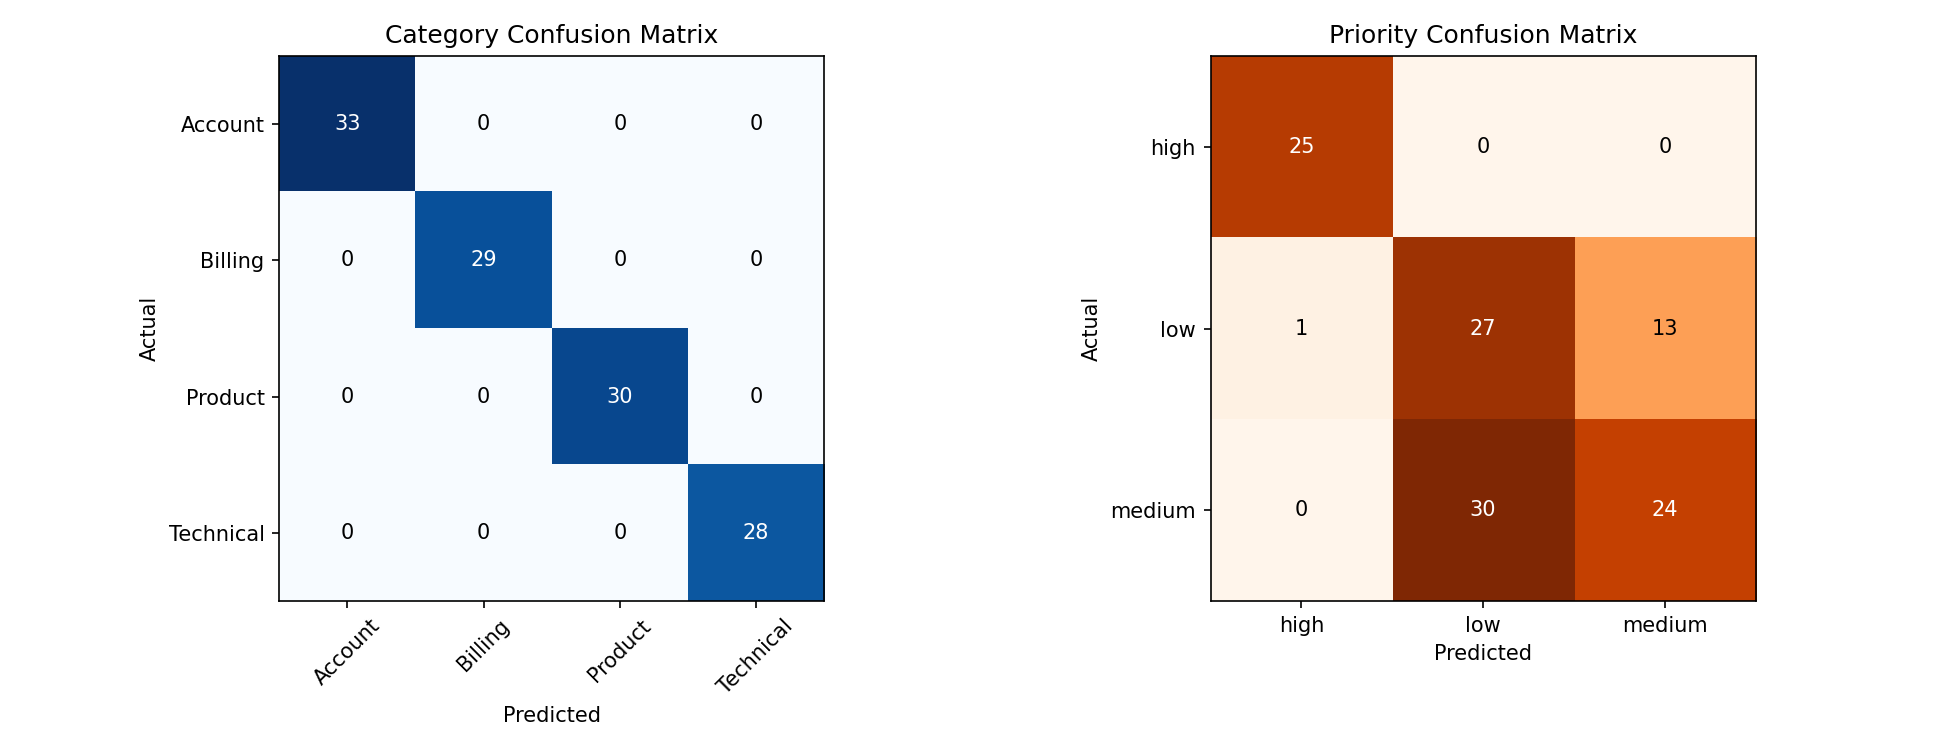
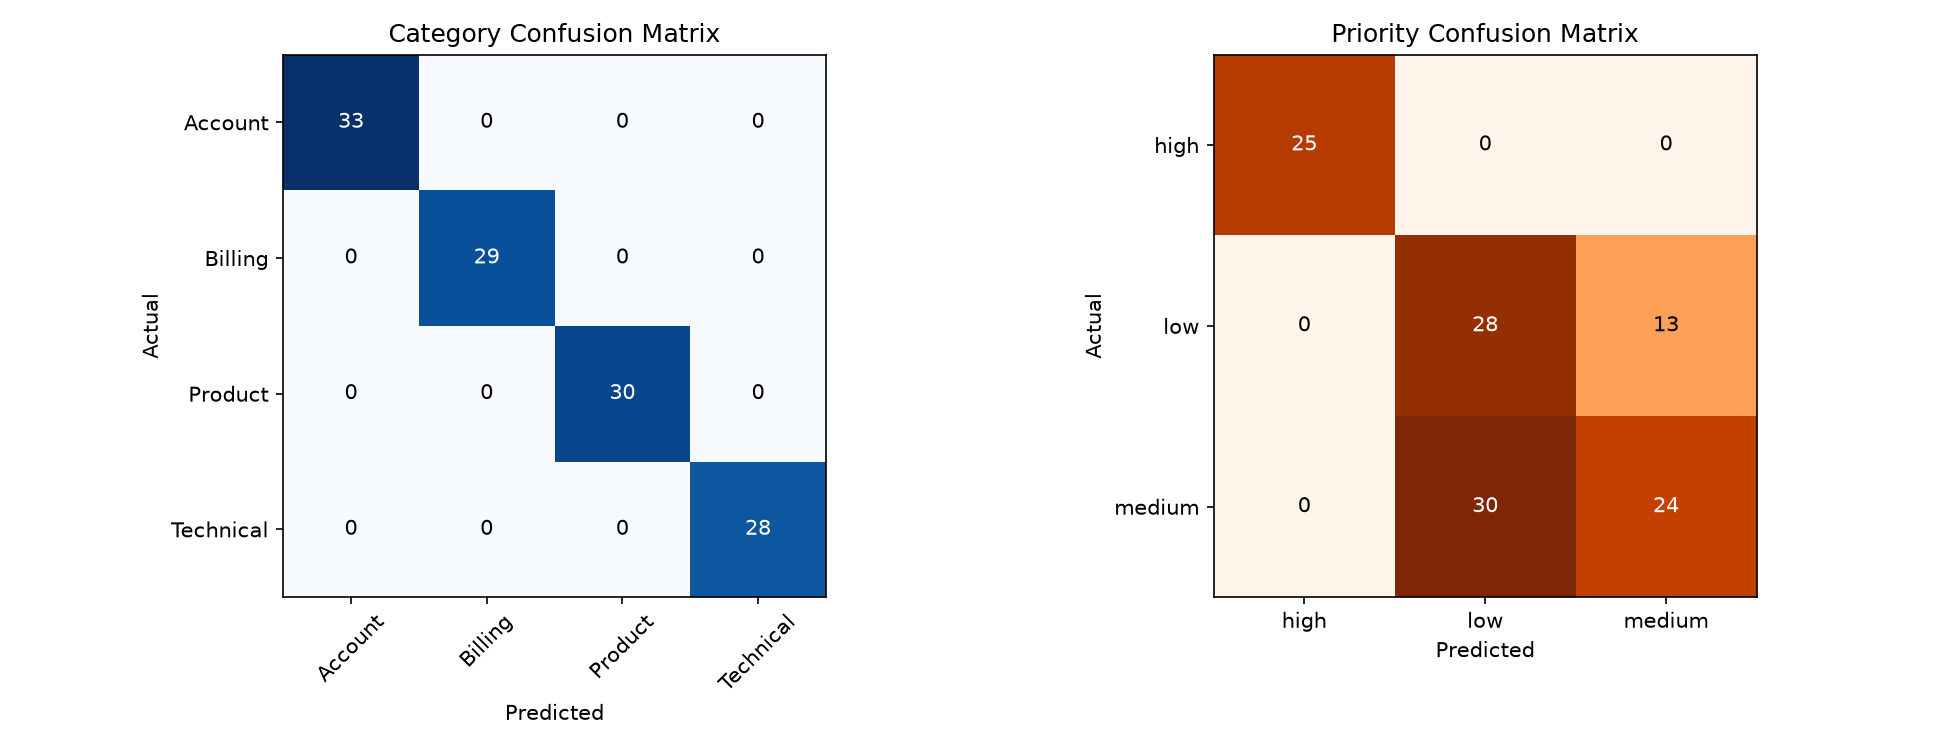
Update Task 2 project

diff --git a/ticket_classification.py b/ticket_classification.py
@@ -13,6 +13,8 @@ Pipeline:
   6. Build a simple predict() function for new tickets
 """
 
+import webbrowser
+import os
 import re
 import pandas as pd
 import numpy as np
@@ -123,6 +125,7 @@ for i in range(len(labels_pri)):
 
 plt.tight_layout()
 plt.savefig("classification_output.png", dpi=150)
+webbrowser.open_new_tab("file://" + os.path.abspath("classification_output.png"))
 print("\nSaved chart -> classification_output.png")
 
 # ---------------------------------------------------------
